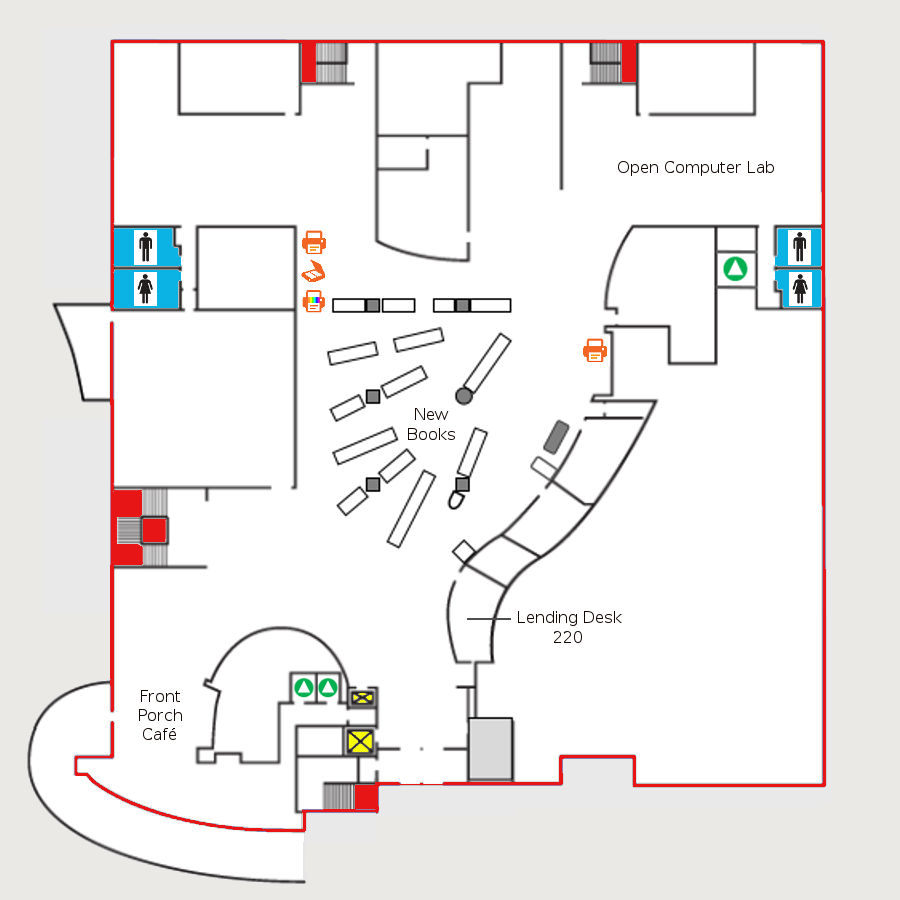
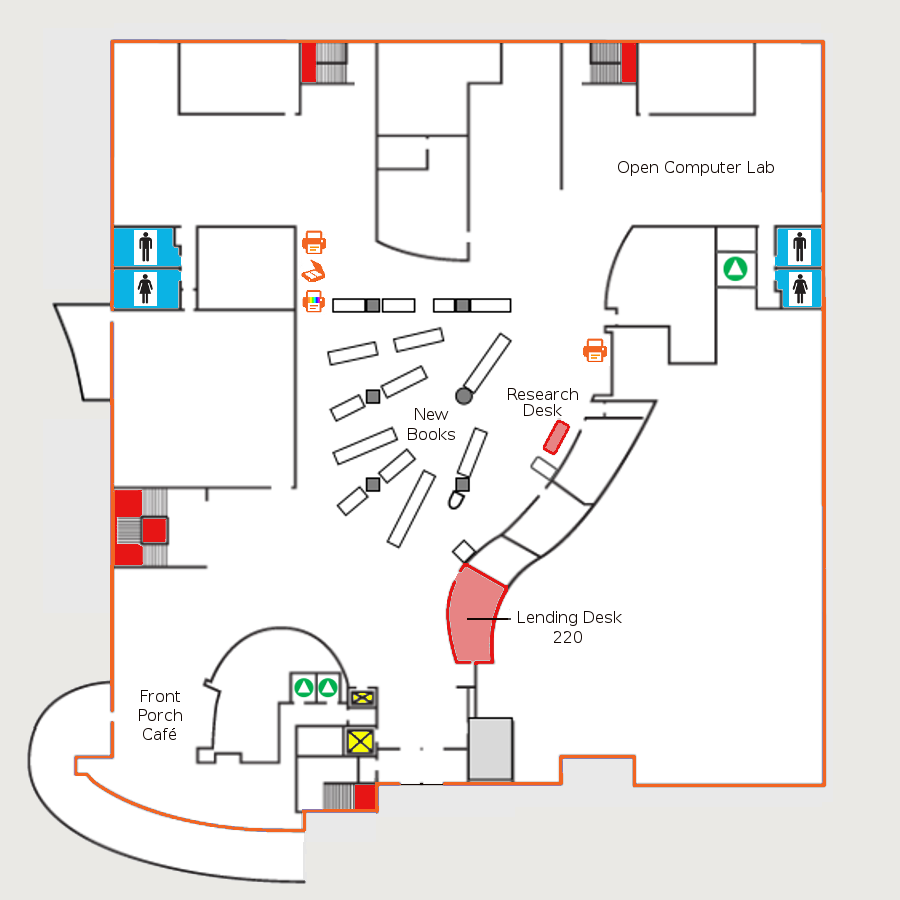
Complete main floor implementation

diff --git a/config/config.js b/config/config.js
@@ -84,7 +84,7 @@ var config = {
 				"bottom_ssr"		: "Schayer Seminar Room"
 			},
 
-			"(?) Rooms" : {
+			"Group 3" : {
 				"bottom_sc"			: "Special Collections",
 				"bottom_vcs"		: "Video Creation Studio"
 			}
@@ -94,6 +94,9 @@ var config = {
 	"room_clickmaps" : {
 		"top_sgs": [
 			"80,335,190,335,190,370,80,370"
+		],
+		"top_otl": [
+			"620,330,820,330,820,490,745,490,745,460,650,460,650,410,620,410"
 		]
 	},
 
@@ -101,6 +104,10 @@ var config = {
 		"top_sgs": {
 			"type": "external",
 			"value": "https://iris.cair.du.edu/room-reservation/library/"
+		},
+		"top_otl": {
+			"type": "external",
+			"value": "http://otl.du.edu"
 		}
 	},
 
